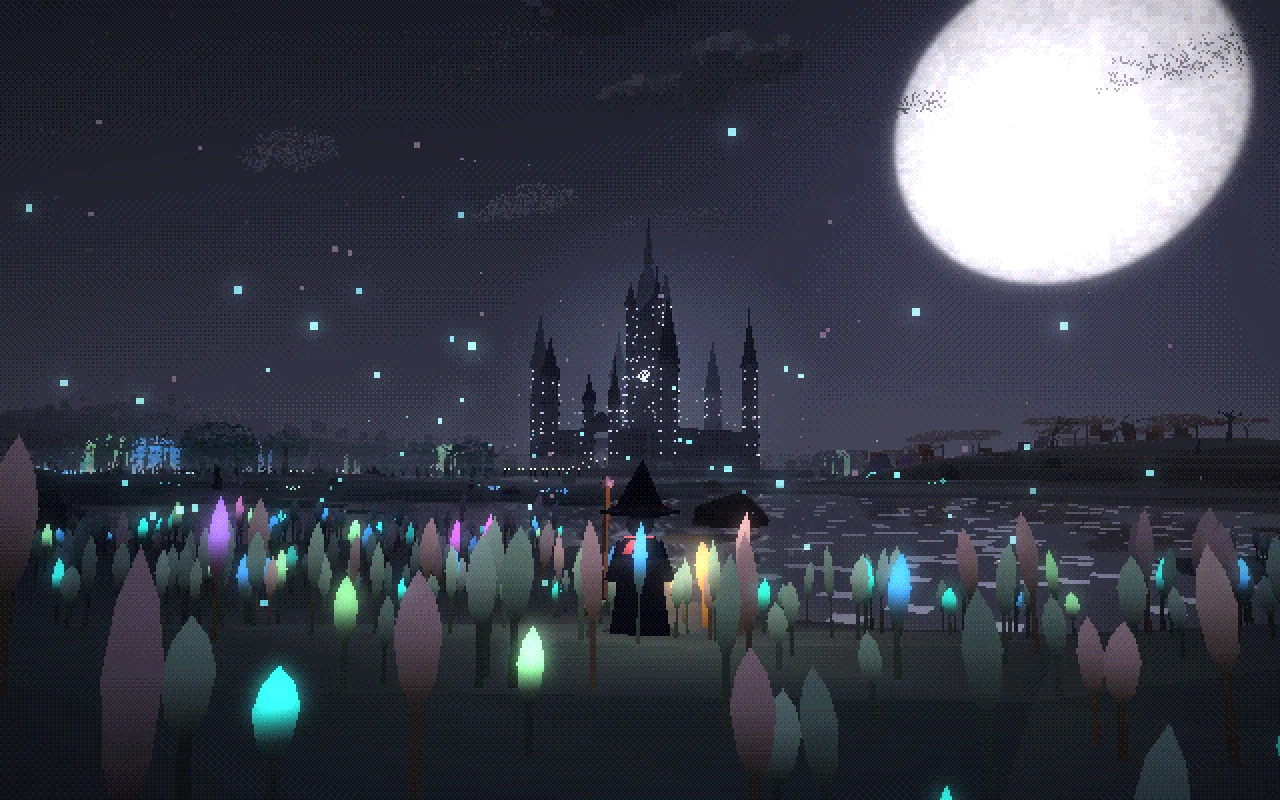
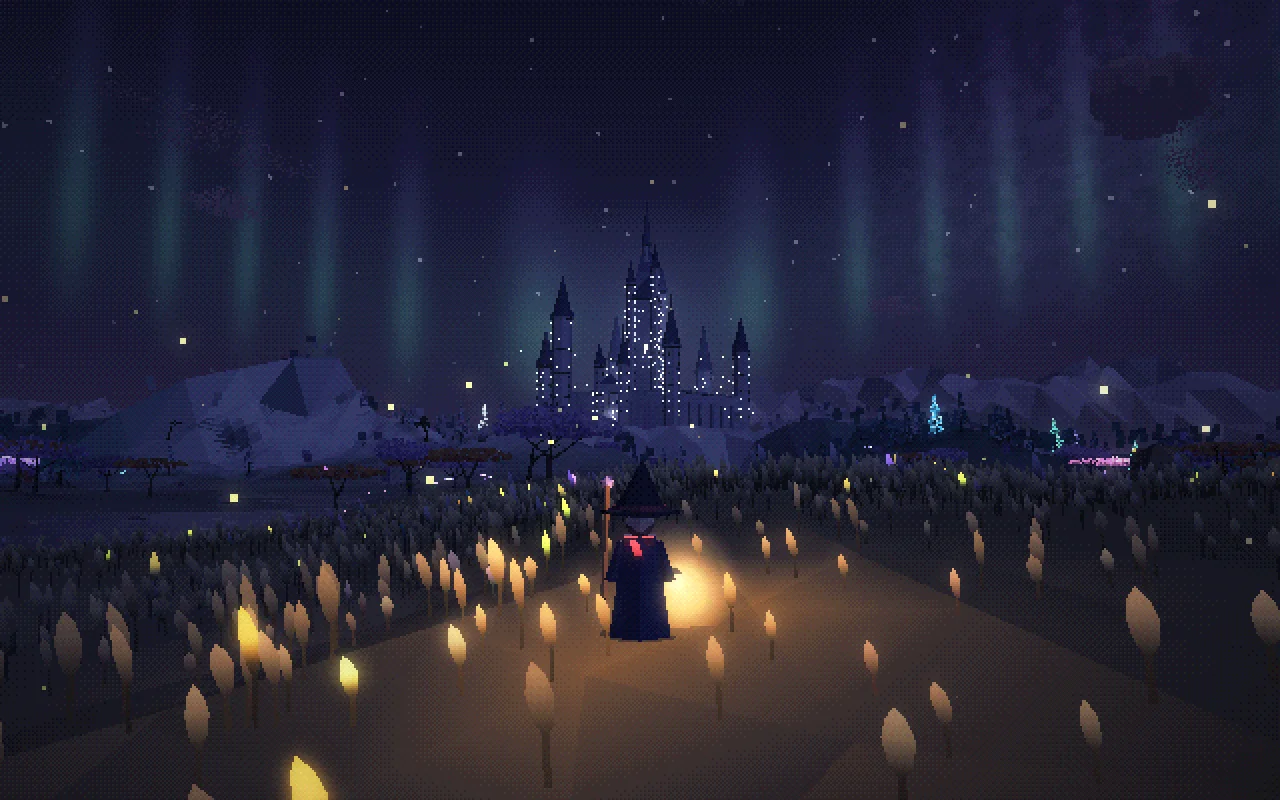
Wanderlicht: stärkere Spiegelung, weniger überstrahlte Aura, feinere Farbstufen, neues Titelbild
Claude-Session: https://claude.ai/code/session_014SDKft1SnT7Tes7BhXB8nh

diff --git a/games/wanderlicht/grafik.js b/games/wanderlicht/grafik.js
@@ -217,7 +217,7 @@ function initMaterials() {
         // Gegenlicht: Rispen leuchten, wenn man in die tiefe Sonne schaut
         vec3 vd = normalize(p - uCam);
         float back = pow(max(dot(vd, uSunDirW), 0.0), 5.0) * smoothstep(0.45, 0.85, t);
-        li += uSunCol * back * 1.6;
+        li += uSunCol * back * 1.05;
         // Windwellen laufen hell über die Wiese
         li *= 1.0 + max(gust, 0.0) * 0.16 * t * uWind;
         vCol = base * li * cloudSh(p.xz);
@@ -279,7 +279,7 @@ function initGraphics(canvas) {
   G.rt = new THREE.WebGLRenderTarget(4, 4, { minFilter: THREE.NearestFilter, magFilter: THREE.NearestFilter, depthBuffer: true });
   G.postMat = new THREE.ShaderMaterial({
     uniforms: { tDiffuse: { value: G.rt.texture }, tBloom: { value: null }, tRays: { value: null }, uBloom: { value: 0.5 }, uRays: { value: 0 }, uRayCol: { value: new THREE.Color(1, 0.8, 0.6) },
-      uShadowTint: { value: new THREE.Color(0.78, 0.8, 1.15) }, uHighTint: { value: new THREE.Color(0.22, 0.15, 0.05) }, uSat: { value: 0.38 }, uFlash: { value: 0 }, uHurt: { value: 0 }, uFade: { value: 0 }, uLevels: { value: 15 }, uFadeCol: { value: new THREE.Color(0, 0, 0) } },
+      uShadowTint: { value: new THREE.Color(0.78, 0.8, 1.15) }, uHighTint: { value: new THREE.Color(0.22, 0.15, 0.05) }, uSat: { value: 0.38 }, uFlash: { value: 0 }, uHurt: { value: 0 }, uFade: { value: 0 }, uLevels: { value: 22 }, uFadeCol: { value: new THREE.Color(0, 0, 0) } },
     vertexShader: 'varying vec2 vUv; void main(){ vUv = uv; gl_Position = vec4(position.xy, 0.0, 1.0); }',
     fragmentShader: `
       uniform sampler2D tDiffuse, tBloom, tRays; uniform float uFlash, uHurt, uFade, uLevels, uSat, uBloom, uRays; uniform vec3 uFadeCol, uRayCol, uShadowTint, uHighTint;
@@ -570,9 +570,9 @@ function initWater() {
         float fres = pow(1.0 - max(v.y, 0.0), 2.5);
         vec3 col = mix(uDeep, uSky, 0.3 + 0.6 * fres);
         if (uReflOn > 0.5) {
-          vec4 rc = uReflVP * vec4(vW.x + sin(vW.z * 0.9 + uTime * 1.3) * 0.25, vW.y, vW.z + sin(vW.x * 0.7 + uTime) * 0.2, 1.0);
+          vec4 rc = uReflVP * vec4(vW.x + sin(vW.z * 0.9 + uTime * 1.3) * 0.12, vW.y, vW.z + sin(vW.x * 0.7 + uTime) * 0.1, 1.0);
           vec2 ru = rc.xy / rc.w * 0.5 + 0.5;
-          if (rc.w > 0.0 && ru.x > 0.0 && ru.x < 1.0 && ru.y > 0.0 && ru.y < 1.0) col = mix(col, texture2D(tRefl, ru).rgb * 0.92, 0.35 + 0.5 * fres);
+          if (rc.w > 0.0 && ru.x > 0.0 && ru.x < 1.0 && ru.y > 0.0 && ru.y < 1.0) col = mix(col, texture2D(tRefl, ru).rgb * 0.9 + uDeep * 0.08, 0.55 + 0.38 * fres);
         }
         vec2 g = floor(vW.xz * 1.2);
         float n = hash(vec3(g, floor(uTime * 2.5 + hash(vec3(g, 3.0)) * 9.0)));

diff --git a/games/wanderlicht/orte.js b/games/wanderlicht/orte.js
@@ -219,10 +219,10 @@ function buildLandmark(L, st) {
   }
   // Leuchtende Aura
   if (L.kind === 'abendschloss') {
-    const a1 = makeGlow(S.aura, 230, 0.32), a2 = makeGlow(0xffa0c0, 120, 0.25);
+    const a1 = makeGlow(S.aura, 230, 0.2), a2 = makeGlow(0xffa0c0, 120, 0.14);
     for (const a of [a1, a2]) { a.material.fog = false; a.position.set(kx, y0 + 40, kz); out.group.add(a); }
     risingMotes(out, 120, cx, y0, cz, R * 1.3, 50, [[1, 0.7, 0.95], [1, 0.85, 0.6], [0.85, 0.7, 1]], 1.4, 0.45);
-    out.updaters.push(() => { const t = U.uTime.value; a1.material.opacity = 0.26 + Math.sin(t * 0.4) * 0.06; });
+    out.updaters.push(() => { const t = U.uTime.value; a1.material.opacity = 0.17 + Math.sin(t * 0.4) * 0.04; });
   } else if (L.kind === 'mondschloss') {
     const a1 = makeGlow(S.aura, 160, 0.22);
     a1.material.fog = false; a1.position.set(kx, y0 + 50, kz); out.group.add(a1);

diff --git a/games/wanderlicht/welt.js b/games/wanderlicht/welt.js
@@ -432,7 +432,7 @@ function bigAt(bi, bj) {
   let L = null;
   const sbi = Math.floor(World.spawnX / BIG), sbj = Math.floor(World.spawnZ / BIG);
   const spawnBig = bi === sbi && bj === sbj;
-  if (spawnBig || r() < 0.85) {
+  if (spawnBig || r() < 0.6) {
     let x = bi * BIG + 230 + r() * (BIG - 460), z = bj * BIG + 230 + r() * (BIG - 460);
     let type = pick(r, ['abendschloss', 'dunkelfeste', 'mondschloss', 'koloss']);
     if (spawnBig) {
